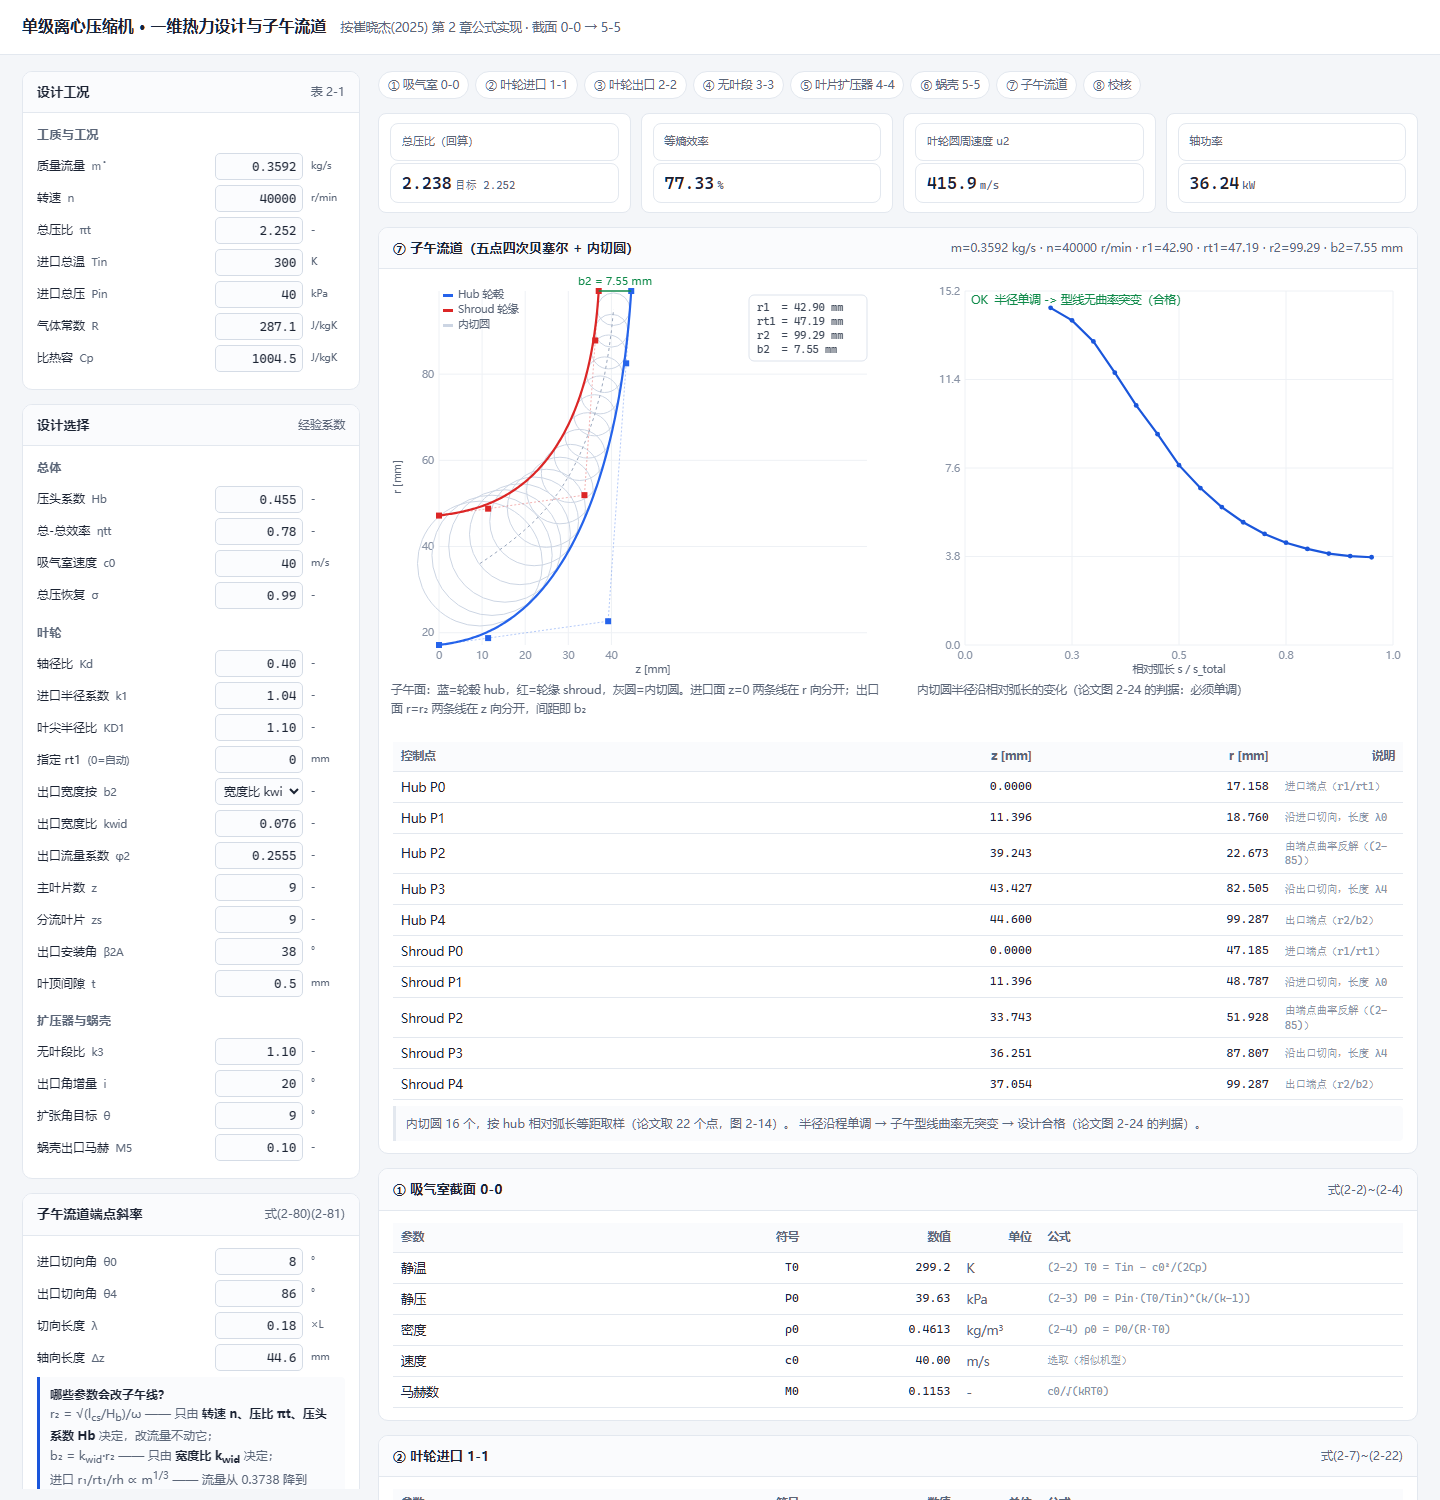
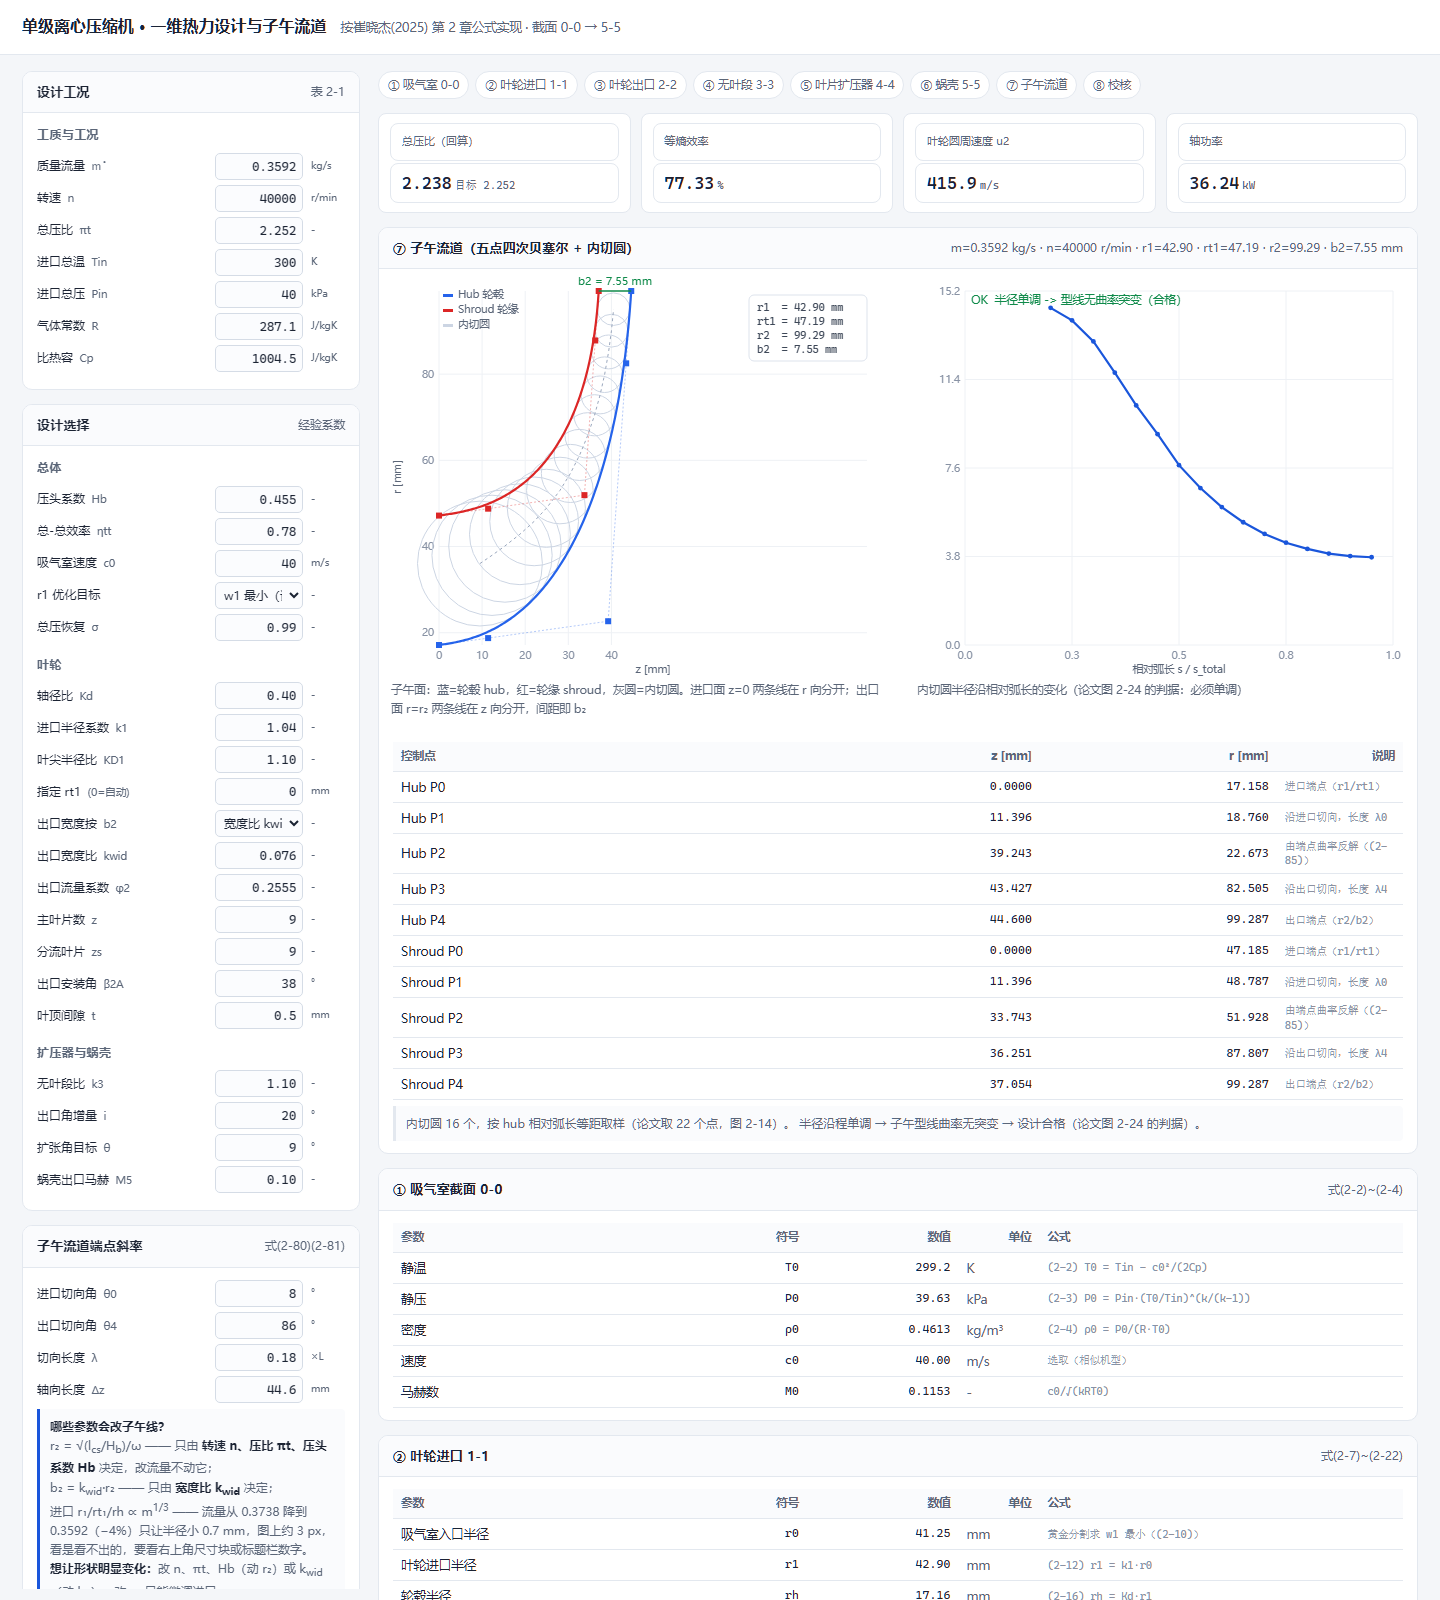
feat: r1 优化目标可选（ηp 最大）+ 单因素敏感性扫描
P0 优化目标
- r1 从「w1 最小」改为可选「ηp 最大」，带三条硬约束：
  数值有效、Mw1<=0.90、β1 in [24,50]°
- 结果 rt1=53.79mm / β1=24.7°，与 CFturbo 实际取值 54.28mm / 25.8° 吻合
- 印证笔记判断：w1 最小（47.19mm）确实不是好目标

P1 单因素敏感性
- 6 个参数可选（tc/b2a/kd1/rt1/k3/kwid），双轴曲线 + 数据表
- 蓝色虚线标当前值，高亮 ηp 峰值点

发现并标注的局限
- 本工具是反问题（给定 πt 算几何），压升链从 P02=Pin·πt 起步，
  所以 πt 对几何参数几乎不响应，只有 ηp 对损失项敏感
- 要让 πt 响应几何需要「正问题」模式，列为下一步

diff --git a/web/app.html b/web/app.html
@@ -136,6 +136,11 @@
           <div class="row"><label>压头系数 <small>Hb</small></label><input id="i_hb" value="0.455"><span class="u">-</span></div>
           <div class="row"><label>总-总效率 <small>ηtt</small></label><input id="i_eta" value="0.78"><span class="u">-</span></div>
           <div class="row"><label>吸气室速度 <small>c0</small></label><input id="i_c0" value="40"><span class="u">m/s</span></div>
+          <div class="row"><label>r1 优化目标</label>
+            <select id="i_optmode">
+              <option value="w1">w1 最小（论文）</option>
+              <option value="eta">ηp 最大（推荐）</option>
+            </select><span class="u">-</span></div>
           <div class="row"><label>总压恢复 <small>σ</small></label><input id="i_sig" value="0.99"><span class="u">-</span></div>
         </div>
         <div class="grp">
@@ -212,6 +217,30 @@
     </div>
     <div id="tables"></div>
     <div id="s8"></div>
+    <div class="card" id="sweep">
+      <h2>⑩ 单因素敏感性 <span class="tag">对应笔记「三参数合并报告无法归因」</span></h2>
+      <div class="body">
+        <div style="display:flex;gap:8px;flex-wrap:wrap;align-items:center;margin-bottom:10px">
+          <select id="i_swparam" style="padding:4px 6px;border:1px solid #d5dce6;border-radius:5px;font:12px system-ui">
+            <option value="tc">t 叶顶间隙（对 ηp 敏感）</option>
+            <option value="b2a">β2A 出口安装角（对 ηp 敏感）</option>
+            <option value="kd1">KD1 叶尖半径比（对 β1/Mw1 敏感）</option>
+            <option value="rt1">rt1 叶尖半径（对 β1/Mw1 敏感）</option>
+            <option value="k3">k3 无叶段长度比（仅改几何）</option>
+            <option value="kwid">kwid 出口宽度比（仅改几何）</option>
+          </select>
+          <span style="font-size:12px;color:#5b6678">范围</span>
+          <input id="i_swlo" style="width:74px;padding:4px;border:1px solid #d5dce6;border-radius:5px;font:12px monospace;text-align:right">
+          <span style="font-size:12px;color:#5b6678">~</span>
+          <input id="i_swhi" style="width:74px;padding:4px;border:1px solid #d5dce6;border-radius:5px;font:12px monospace;text-align:right">
+          <span style="font-size:12px;color:#5b6678">点</span>
+          <input id="i_swn" value="12" style="width:52px;padding:4px;border:1px solid #d5dce6;border-radius:5px;font:12px monospace;text-align:right">
+          <button onclick="doSweep()" style="flex:none;padding:5px 14px;font-size:12px">扫描</button>
+        </div>
+        <canvas id="cvSweep" style="width:100%;height:300px"></canvas>
+        <div id="swTable"></div>
+      </div>
+    </div>
     <div class="card" id="cft">
       <h2>⑨ CFturbo 填表清单 <span class="tag">角度已换算为「从切向测量」</span></h2>
       <div class="body" id="cftBody"></div>
@@ -801,6 +830,7 @@ function readInputs(){
     m:num('i_m'), n:num('i_n'), PR:num('i_pr'), Tin:num('i_tin'), Pin:num('i_pin')*1000,
     R:num('i_R'), cp:num('i_cp'),
     hb:num('i_hb'), eta:num('i_eta'), c0:num('i_c0'), sig:num('i_sig'),
+    optmode:document.getElementById('i_optmode').value,
     kd:num('i_kd'), k1:num('i_k1'), kd1:num('i_kd1'), rt1_in:num('i_rt1'), kwid:num('i_kwid'),
     phi2:num('i_phi2'), b2mode:document.getElementById('i_b2mode').value,
     z:num('i_z'), zs:num('i_zs'), b2a:num('i_b2a'), tc:num('i_tc'),
@@ -822,6 +852,122 @@ function tableHTML(title, tag, rows, eqCol=true){
         ${eqCol?`<td class="eq">${r[4]||''}</td>`:''}</tr>`;
   }
   return h+'</tbody></table></div></div>';
+}
+
+const SW_META = {
+  b2a:  {label:'β2A 出口安装角', unit:'°',   get:(p)=>p.b2a,  set:(p,v)=>{p.b2a=v;},  fmt:(v)=>v.toFixed(1)},
+  k3:   {label:'k3 无叶段长度比', unit:'-',   get:(p)=>p.k3,   set:(p,v)=>{p.k3=v;},   fmt:(v)=>v.toFixed(3)},
+  kwid: {label:'kwid 出口宽度比', unit:'-',   get:(p)=>p.kwid, set:(p,v)=>{p.kwid=v;}, fmt:(v)=>v.toFixed(4)},
+  tc:   {label:'t 叶顶间隙',      unit:'mm',  get:(p)=>p.tc,   set:(p,v)=>{p.tc=v;},   fmt:(v)=>v.toFixed(2)},
+  kd1:  {label:'KD1 叶尖半径比',  unit:'-',   get:(p)=>p.kd1,  set:(p,v)=>{p.kd1=v;},  fmt:(v)=>v.toFixed(3)},
+  rt1:  {label:'rt1 叶尖半径',    unit:'mm',  get:(p)=>p.rt1*1000, set:(p,v)=>{p.rt1_in=v;}, fmt:(v)=>v.toFixed(1)},
+};
+
+function doSweep(){
+  const p = readInputs();
+  const key = document.getElementById('i_swparam').value;
+  const meta = SW_META[key];
+  const cur = meta.get(p);
+  let lo = parseFloat(document.getElementById('i_swlo').value);
+  let hi = parseFloat(document.getElementById('i_swhi').value);
+  if(!isFinite(lo) || !isFinite(hi)){
+    lo = cur*0.75; hi = cur*1.25;
+    document.getElementById('i_swlo').value = +lo.toFixed(3);
+    document.getElementById('i_swhi').value = +hi.toFixed(3);
+  }
+  const n = Math.max(4, Math.min(40, parseInt(document.getElementById('i_swn').value)||12));
+
+  const data = [];
+  for(let i=0;i<=n;i++){
+    const v = lo + (hi-lo)*i/n;
+    const q = {...p, optmode:'w1'};      // 扫参时固定 w1 最小，避免嵌套优化
+    meta.set(q, v);
+    if(key==='rt1') q.rt1_in = v;
+    const o = compute(q);
+    data.push({v, piP:o.piP, eta:o.etaReal*100, etaP:o.eta_p_calc*100,
+               Mw1:o.Mw1, b2:o.b2*1000, beta1:o.beta1});
+  }
+  window._SW = {data, meta, cur};
+  drawSweep(document.getElementById('cvSweep'), data, meta, cur);
+  renderSweepTable(data, meta, cur);
+}
+
+function drawSweep(cv, data, meta, cur){
+  const {ctx, W, H} = setupCanvas(cv);
+  const pad={l:52,r:56,t:14,b:34};
+  const xs=data.map(d=>d.v);
+  const x0=Math.min(...xs), x1=Math.max(...xs);
+  const eMin=Math.min(...data.map(d=>d.etaP)), eMax=Math.max(...data.map(d=>d.etaP));
+  const pMin=Math.min(...data.map(d=>d.piP)), pMax=Math.max(...data.map(d=>d.piP));
+  const ePad=Math.max((eMax-eMin)*0.25, 0.3), pPad=Math.max((pMax-pMin)*0.25, 0.01);
+  const X=v=>pad.l+(v-x0)/Math.max(x1-x0,1e-9)*(W-pad.l-pad.r);
+  const YE=e=>H-pad.b-(e-(eMin-ePad))/((eMax+ePad)-(eMin-ePad))*(H-pad.t-pad.b);
+  const YP=p=>H-pad.b-(p-(pMin-pPad))/((pMax+pPad)-(pMin-pPad))*(H-pad.t-pad.b);
+
+  // 网格
+  ctx.strokeStyle='#eef1f5'; ctx.lineWidth=1; ctx.font='10.5px system-ui';
+  for(let i=0;i<=4;i++){
+    const y=pad.t+(H-pad.t-pad.b)*i/4;
+    ctx.beginPath(); ctx.moveTo(pad.l,y); ctx.lineTo(W-pad.r,y); ctx.stroke();
+  }
+  // 轴标签
+  ctx.fillStyle='#0f8a4a'; ctx.textAlign='right';
+  for(let i=0;i<=4;i++){
+    const e=(eMax+ePad)-(i/4)*((eMax+ePad)-(eMin-ePad));
+    ctx.fillText(e.toFixed(2), pad.l-5, pad.t+(H-pad.t-pad.b)*i/4+4);
+  }
+  ctx.fillStyle='#dc2626'; ctx.textAlign='left';
+  for(let i=0;i<=4;i++){
+    const pv=(pMax+pPad)-(i/4)*((pMax+pPad)-(pMin-pPad));
+    ctx.fillText(pv.toFixed(2), W-pad.r+5, pad.t+(H-pad.t-pad.b)*i/4+4);
+  }
+  ctx.fillStyle='#8892a4'; ctx.textAlign='center';
+  ctx.fillText(meta.label+' ['+meta.unit+']', (pad.l+W-pad.r)/2, H-5);
+  ctx.fillStyle='#0f8a4a'; ctx.textAlign='left'; ctx.fillText('ηp [%]', pad.l+2, pad.t+10);
+  ctx.fillStyle='#dc2626'; ctx.textAlign='right'; ctx.fillText('πt', W-pad.r-2, pad.t+10);
+
+  // 曲线
+  const line=(getY,color)=>{
+    ctx.strokeStyle=color; ctx.lineWidth=2; ctx.beginPath();
+    data.forEach((d,i)=> i? ctx.lineTo(X(d.v), getY(d)) : ctx.moveTo(X(d.v), getY(d)));
+    ctx.stroke();
+    ctx.fillStyle=color;
+    data.forEach(d=>{ ctx.beginPath(); ctx.arc(X(d.v), getY(d), 2.4, 0, 7); ctx.fill(); });
+  };
+  line(d=>YE(d.etaP), '#0f8a4a');
+  line(d=>YP(d.piP), '#dc2626');
+
+  // 当前值竖线
+  const xc=X(cur);
+  ctx.strokeStyle='#1a56db'; ctx.setLineDash([4,3]); ctx.lineWidth=1.5;
+  ctx.beginPath(); ctx.moveTo(xc,pad.t); ctx.lineTo(xc,H-pad.b); ctx.stroke();
+  ctx.setLineDash([]);
+  ctx.fillStyle='#1a56db'; ctx.textAlign='center'; ctx.font='10.5px system-ui';
+  ctx.fillText('当前 '+meta.fmt(cur), xc, pad.t+9);
+}
+
+function renderSweepTable(data, meta, cur){
+  let h = `<table style="margin-top:8px"><thead><tr>
+    <th>${meta.label}</th><th>πt</th><th>η [%]</th><th>ηp [%]</th><th>Mw1</th><th>β1 [°]</th></tr></thead><tbody>`;
+  let bestI=0;
+  data.forEach((d,i)=>{ if(d.etaP>data[bestI].etaP) bestI=i; });
+  data.forEach((d,i)=>{
+    const mark = i===bestI ? ' class="hl"' : '';
+    h += `<tr${mark}><td class="num">${meta.fmt(d.v)}</td><td class="num">${d.piP.toFixed(3)}</td>
+      <td class="num">${d.eta.toFixed(2)}</td><td class="num">${d.etaP.toFixed(2)}</td>
+      <td class="num">${d.Mw1.toFixed(3)}</td><td class="num">${d.beta1.toFixed(1)}</td></tr>`;
+  });
+  h += '</tbody></table>';
+  const b=data[bestI];
+  const dEta = Math.max(...data.map(d=>d.etaP)) - Math.min(...data.map(d=>d.etaP));
+  const dPi  = Math.max(...data.map(d=>d.piP)) - Math.min(...data.map(d=>d.piP));
+  h += `<div class="note">峰值在 <b>${meta.label} = ${meta.fmt(b.v)}</b>（ηp=${b.etaP.toFixed(2)}%，πt=${b.piP.toFixed(3)}）。
+      本区间内 ηp 变化 ${dEta.toFixed(2)} 点、πt 变化 ${dPi.toFixed(4)}。
+      <br><b>⚠ 响应性说明：</b>本工具是<b>反问题</b>（给定 πt 算几何），压升链从 P0₂ = Pin·πt 起步，
+      所以 <b>πt 对几何参数几乎不响应</b>——改 k3/kwid 只改变损失细节，传不到总压比上。
+      对 <b>ηp</b> 有效的只有进损失模型的那几项（间隙 t、β2A 通过滑移、rt1 通过叶片长度）。
+      要让 πt 真正响应几何，需要「正问题」模式（给定几何算性能），那是下一步。</div>`;
+  document.getElementById('swTable').innerHTML=h;
 }
 
 function cfturboTable(o,p,m){
@@ -926,11 +1072,19 @@ function cfturboTable(o,p,m){
 
 function render(o,p,m){
   // KPI
-  document.getElementById('kpi').innerHTML = `
+  let kpiHTML = `
     <div><div class="k">总压比（回算）</div><div class="v">${fmt(o.piP,4)}<small>目标 ${fmt(p.PR,4)}</small></div></div>
     <div><div class="k">等熵效率</div><div class="v">${fmt(o.etaReal*100,4)}<small>%</small></div></div>
     <div><div class="k">叶轮圆周速度 u2</div><div class="v">${fmt(o.u2,4)}<small>m/s</small></div></div>
     <div><div class="k">轴功率</div><div class="v">${fmt(o.power,4)}<small>kW</small></div></div>`;
+  if(o._opt){
+    kpiHTML += `<div><div class="k">r1 优化（ηp 最大）</div>
+      <div class="v">${o._opt.bestRt.toFixed(1)}<small>mm</small></div>
+      <div style="font-size:10.5px;color:#5b6678;margin-top:2px">
+        w1 最小解 ${o._opt.rt0.toFixed(1)} mm，ηp 提升 ${o._opt.gain>=0?'+':''}${o._opt.gain.toFixed(2)} 点
+        <br>β1=${o._opt.beta1.toFixed(1)}°，Mw1=${o._opt.Mw1.toFixed(3)}</div></div>`;
+  }
+  document.getElementById('kpi').innerHTML = kpiHTML;
 
   let h='';
   h+=tableHTML('① 吸气室截面 0-0','式(2-2)~(2-4)',[
@@ -1110,7 +1264,37 @@ let MER=null, OUT=null;
 function run(){
   try{
     const p=readInputs();
-    const o=compute(p);
+    let o, optInfo=null;
+    // ---- r1 优化 ----
+    // 论文用 w1 最小，但那只是"入口相对速度最小"，不等于级效率最高
+    // （笔记第 3.3 节与第 7 节第 1 条的批评）。有了损失模型后，
+    // 可以直接扫 rt1 取 ηp 最大——这是把代理目标换成真实目标的低成本实现。
+    if(p.optmode==='eta' && !(p.rt1_in>0)){
+      const base = compute({...p, optmode:'w1'});
+      const rt0  = base.rt1*1000;
+      let best=null, bestRt=rt0, nRej=0;
+      const N=32, lo=0.72, hi=1.28;                 // 扫 ±28%
+      for(let i=0;i<=N;i++){
+        const rt = rt0*(lo + (hi-lo)*i/N);
+        const cand = compute({...p, rt1_in: rt, optmode:'w1'});
+        // 三个硬约束，缺一个优化就会跑到边界上：
+        //   ① 数值必须有效（rt1 过小会让 c_m1 爆掉、迭代发散）
+        //   ② 叶尖相对马赫 <= 0.90（亚音速设计上限）
+        //   ③ 叶尖进口角 >= 24°（叶片太"躺"加工和结构都不合理，
+        //      CFturbo 自己的解就落在 24.3° 附近）
+        if(!isFinite(cand.eta_p_calc) || !isFinite(cand.beta1)){ nRej++; continue; }
+        if(cand.Mw1 > 0.90 || cand.beta1 < 24 || cand.beta1 > 50){ nRej++; continue; }
+        if(!best || cand.eta_p_calc > best.eta_p_calc){ best=cand; bestRt=rt; }
+      }
+      if(!best){ best = base; bestRt = rt0; }        // 全被拒就退回 w1 解
+      o = best;
+      optInfo = {rt0, bestRt, gain:(best.eta_p_calc-base.eta_p_calc)*100,
+                 etaW1:base.eta_p_calc*100, etaOpt:best.eta_p_calc*100,
+                 beta1:best.beta1, Mw1:best.Mw1, nRej};
+    }else{
+      o = compute(p);
+    }
+    o._opt = optInfo;
     const m=buildMeridian(o,p);
     MER=m; OUT={o,p};
     render(o,p,m);
@@ -1131,11 +1315,12 @@ document.querySelectorAll('.row input').forEach(el=>{
 });
 
 const DEF={i_m:0.3592,i_n:40000,i_pr:2.252,i_tin:300,i_pin:40,i_R:287.1,i_cp:1004.5,
-  i_hb:0.455,i_eta:0.78,i_c0:40,i_sig:0.99,i_kd:0.40,i_k1:1.04,i_kd1:1.10,i_rt1:0,
+  i_hb:0.455,i_eta:0.78,i_c0:40,i_sig:0.99,i_optmode:'w1',i_kd:0.40,i_k1:1.04,i_kd1:1.10,i_rt1:0,
   i_kwid:0.076,i_phi2:0.2555,i_z:9,i_zs:9,i_b2a:38,i_tc:0.5,i_k3:1.10,i_i:20,i_th:9,i_m5:0.10,
   i_th0:8,i_th4:86,i_lam:0.18,i_lz:44.6};
 function resetIn(){ for(const k in DEF) document.getElementById(k).value=DEF[k];
-  document.getElementById('i_b2mode').value='kwid'; run(); }
+  document.getElementById('i_b2mode').value='kwid';
+  document.getElementById('i_optmode').value='w1'; run(); }
 
 window.addEventListener('resize', ()=>{ if(MER) requestAnimationFrame(()=>{
   drawMeridian(document.getElementById('cvMer'), MER, OUT.o);
